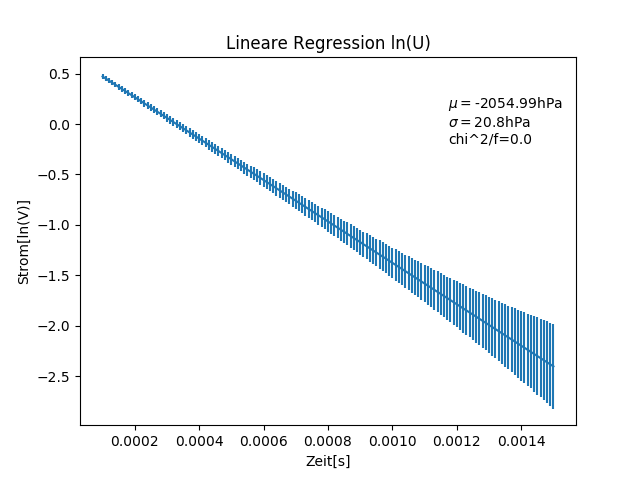
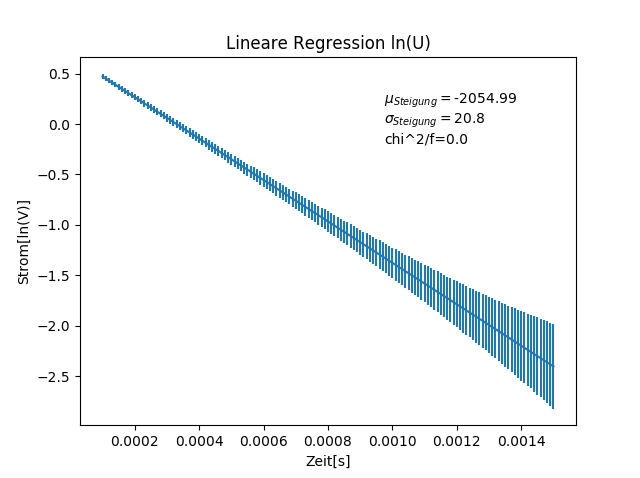
Vervollständigung

Changed region(s): [[0.5938, 0.1757, 0.875, 0.3222]]

diff --git a/Elektronik/E_Protokoll.tex b/Elektronik/E_Protokoll.tex
@@ -118,7 +118,7 @@ Herstellerangabe [$\Omega$] & Multimeter [$\Omega$] & Brücke [$\Omega$] & linea
 \label{tab:Widerstand_Ergebnisse}
 \end{tabular} \\
 Es lässt sich gut erkennen, dass die Messwerte aller Messmethoden sehr nah an der Herstellerangabe liegen. Insbesondere liegen alle Messwerte innerhalb der vom Hersteller angegebenen Toleranz.
-
+\newpage
 \section{Kondensator}
 \subsection{Versuchsbeschreibung}
 In diesem Teilversuch soll die Kapazität eines Kondensators durch Auf- und Entladung von diesem bestimmt werden.
@@ -181,8 +181,10 @@ Beim Entladevorgang bleibt die Spannungsquelle eingeschaltet. Der Messvorgang wi
 \subsubsection{Messung mit dem Oszilloskop}
 Messeinstellungen:
 \begin{tabular}{c c c}
-Messparameter & Zeitauflösung: $500\mu s$  & Spannungsauflösung: $0.2V$ \\ 
+Messeinstellungen: & Zeitauflösung: $500\mu s$  & Spannungsauflösung: $0.2V$ \\ 
 \end{tabular} 
+\\
+\\
 Die Achsenauflösungen sollten so gewählt werden, dass man die Werte möglichst gut ablesen kann.
 Der Trigger sollte an der Spannungskurve anliegen.
 \subsubsection{Messung mit CASSY}
@@ -203,7 +205,7 @@ Um die Kapazität zu bestimmen wurden jeweils bei Auf- und Entladung zwei Zeiten
 \begin{center}
 \begin{tabular}{|c|c|c|c|c|c|}
 \hline 
-• & Offset & t1 & U1 & t2 & U2 \\ 
+ & Offset & t1 & U1 & t2 & U2 \\ 
 \hline 
 Aufladung & -1.18V & -5.2ms & -0.928V & $0.5ms$ & -0.240V \\ 
 \hline 
@@ -220,7 +222,7 @@ Die gemessenen Werte sind in Tab\ref{tab:Kond_Osz} aufgeführt. Die Kapazität w
 \end{equation}
 Nach C auflösen ergibt:
 \begin{equation}
-C = \dfrac{t1-t2}{R\cdot \ln(\dfrac{U1}{U2}}
+C = \dfrac{t1-t2}{R\cdot \ln(\dfrac{U1}{U2})}
 \end{equation}
 
 
@@ -259,7 +261,7 @@ Die Fehler wurden dabei folgendermaßen bestimmt:
 \subsection{Auswertung CASSY}
 Über das CASSY wurden bei Auf- und Entladung jeweils 5 Datensätze aufgenommen.
 \subsubsection{Rohdaten}
-Die Rohdaten Folgen einem logarithmischem Verlauf. Es ist also sinnvoll, diese zu logarithmieren. Dabei wird die Spannung beim Aufladen mit
+Die Rohdaten Folgen einem logarithmischem Verlauf. Es ist also sinnvoll, diese zu logarithmieren. Dabei wird die \textbf{Spannung beim Aufladen} mit
 \begin{equation}
 U_{log} = log(U_0-U)
 \end{equation}
@@ -271,7 +273,8 @@ U_{log} = log(U)
 I_{log} = log(I)
 \end{equation}
 logarithmiert.\\
-In den folgenden Beispielplots erkennt man, dass diese logarithmische Darstellung nur am Anfang des Messbereiches sinnvoll ist, da im späteren die Schwankung zu stark wird und der Verlauf nicht mehr logarithmisch ist.
+In den folgenden Beispielplots erkennt man, dass diese logarithmische Darstellung nur am Anfang des Messbereiches sinnvoll ist, da im späteren die Schwankung zu stark wird und der Verlauf nicht mehr logarithmisch ist.\\
+Es wurde immer der Betrag der Messwerte genommen. Deswegen ist der Strom beim Entladen positiv.
 \begin{figure}[H]
 \begin{center}
 \includegraphics[width=0.49\linewidth]{Bilder/Kondensator_U}
@@ -315,7 +318,7 @@ In den folgenden Beispielplots erkennt man, dass diese logarithmische Darstellun
 \includegraphics[width=0.49\linewidth]{Bilder/Kondensator_auf_linU}
 \includegraphics[width=0.49\linewidth]{Bilder/Kondensator_auf_resI}
 \includegraphics[width=0.49\linewidth]{Bilder/Kondensator_auf_resU}
-\caption[Rohdaten logarith. A]{Lineare Regressionen bei der Aufladung}
+\caption[Rohdaten logarith. A]{Lineare Regressionen bei der Aufladung(links: Strom, rechts: Spannung}
 \label{fig:linAuf}
 \end{center}
 \end{figure}
@@ -326,7 +329,7 @@ In den folgenden Beispielplots erkennt man, dass diese logarithmische Darstellun
 \includegraphics[width=0.49\linewidth]{Bilder/Kondensator_ent_linU}
 \includegraphics[width=0.49\linewidth]{Bilder/Kondensator_ent_resI}
 \includegraphics[width=0.49\linewidth]{Bilder/Kondensator_ent_resU}
-\caption[Rohdaten logarith. A]{Lineare Regressionen bei der Entladung}
+\caption[Rohdaten logarith. A]{Lineare Regressionen bei der Entladung(links: Strom, rechts: Spannung)}
 \label{fig:linEnt}
 \end{center}
 \end{figure}
@@ -340,7 +343,7 @@ Als Einzelfehler für die lineare Regression wurde der durch Fehlerfortpflanzung
 \begin{equation}
 \sigma_{log(I)} = \dfrac{\sigma_I}{I}
 \end{equation}
-Wobei $\sigma_U$ und $\sigma_I$ den Rauschmessungsfehlern aus dem vorherigen Versuch entsprechen.
+Wobei $\sigma_U$ und $\sigma_I$ den Rauschmessungsfehlern aus dem vorherigen Versuch entsprechen.\\
 Anmerkung: Da die Rauschmessung mit dem kapputen CASSY durchgeführt wurde, sind die Fehler vermutlich viel zu groß. Dies resultiert in zu kleinen $\chi ^{2}/f$.
 
 \begin{table}
@@ -367,10 +370,11 @@ Der Fehler auf $\tau$ ergibt sich dabei folgendermaßen:
 \begin{equation}
 \sigma_{\tau}=\dfrac{\sigma_{a}}{a^{2}}
 \end{equation}
-Der Fehler auf C ergibt sich durch
+Der statistische Fehler auf C ergibt sich durch
 \begin{equation}
 \sigma_C = \sqrt{(\dfrac{\sigma_{\tau}}{R})^{2}+(\dfrac{\tau \cdot \sigma_{R}}{R^{2}})^{2}}
 \end{equation}
+Der systematische Fehler auf C wird aus dem systematischen des Widerstandes fortgepflanzt.
 \begin{table}[H]
 \begin{tabular}{|c|c|c|}
 \hline 
@@ -395,17 +399,22 @@ C_{ges} = (4.951\pm 0.006\pm0.123)\mu F
 
 \begin{tabular}{|c|c|}
 \hline 
-Herstellerangaben & 4.7\\ 
+Herstellerangaben & $(4.7\pm0.235)\mu F$\\ 
 \hline 
-CASSY & $4.951\pm 0.006\pm0.123$\\
+CASSY & $(4.951\pm 0.006\pm0.123)\mu F$\\
 \hline 
-Oszilloskop(Aufladung) & $4.69\pm 0.05\pm 0.08$ \\ 
+Oszilloskop(Aufladung) & $(4.69\pm 0.05\pm 0.08)\mu F$ \\ 
 \hline 
-Oszilloskop(Entladung) & $4.88\pm 0.02\pm 0.05$ \\ 
+Oszilloskop(Entladung) & $(4.88\pm 0.02\pm 0.05)\mu F$ \\ 
 \hline 
-Brücke & $4.88\pm0.01\pm0.01$ \\ 
+Brücke & $(4.88\pm0.01\pm0.01)\mu F$ \\ 
 \hline 
 \end{tabular} 
+
+\subsubsection{Fazit}
+Die meisten Messungen haben einen Wert ergeben, der größer als die Herstellerangabe. Auffallend ist der riesige Systematische Fehler auf die CASSY-Messung. Dieser macht die CASSY-Messung sehr ungenau und vermutlich wurde hier ein zu großer Wert gemessen.\\
+Alle vier Messergebnisse liegen im Bereich einer Standardabweichung um den Wert $4.9\mu F$. Dieser Wert liegt im Rahmen der vom Hersteller angegebenen Ungenauigkeit. Es ist also sinnvoll anzunehmen, dass der Kondensator eine Kapazität von $4.9\mu F$ hat.
+\newpage
 
 \section{RLC-Schwingkreis}
 \subsection{Versuchsbeschreibung}
@@ -739,7 +748,7 @@ Herstellerangaben und von uns bestimmte Werte weichen dabei in der Regel um weni
 Lediglich die Aufzeichnung und Bestimmung des aperiodischen Grenzfalls ist nicht vollständig gelungen. Der bestimmte Wert weicht um mehrere Standardabweichungen von der theoretischen Vorhersage ab. Ursächlich dafür ist wahrscheinlich, dass eine exakte Aufzeichnung des Grenzfalls nicht gelungen ist und mit der besten vorhandenen Approximation gearbeitet werden musste.
 
 
-
+\newpage
 \section{Gekoppelte Schwingkreise - Schwebung}
 \subsection{Versuchsbeschreibung}
 Ein LC-Schwingkreis kann induktiv mit einem zweiten LC-Schwingkreis gekoppelt werden, der dadurch zu erzwungenen Schwingungen angeregt wird. Falls die Eigenfrequenzen der Schwingkreise gleich ist $w_1 = w_2$, tritt eine Resonanz auf. In diesem Fall kann eine Schwebung beobachtet werden. Bedeutet: Die Schwingungsenergie "schwingt" zwischen den Schwingkreisen hin und her. \\
@@ -825,6 +834,7 @@ Der beschriebene Versuch wurde mit 3 verschiedenen Kopplungen durchgeführt: Ein
 Die Kopplung wurde jeweils mit Gleichung \ref{eq:Kopplung} bestimmt. Der Fehler ergibt sich aus der gauß'schen Fehlerfortpflanzung zu:
 \begin{equation}
 \sigma_k = \sqrt{\left( \left( \dfrac{2 \cdot f_-}{f_+^2 + f_-^2} - 2 \cdot f_- \cdot \dfrac{f_-^2 - f_+^2}{(f_+^2 + f_-^2)^2} \right) \cdot \sigma_{f_-} \right)^2 + \left( \left( \dfrac{2 \cdot f_+}{f_+^2 + f_-^2} + 2 \cdot f_+ \cdot \dfrac{f_-^2 - f_+^2}{(f_+^2 + f_-^2)^2} \right) \cdot \sigma_{f_+} \right)^2}
+\label{eq:Kopplung_k}
 \end{equation}
 Außerdem wurde die Zeitverschiebung aus den Daten jeweils über den zeitlichen Abstand zwischen einem Extremum in der einen und einer Nullstelle in der anderen Spannung bestimmt. Berechnet man die Zeitverschiebung mit Gleichung \ref{eq:delta_t}, so findet man mit der gauß'schen Fehlerfortpflanzung den Fehler auf $\Delta t$ zu:
 \begin{equation}
@@ -854,5 +864,126 @@ Messung & $k_{gemessen}$ & $\Delta t_{berechnet}$ [ms] & $\Delta t_{gemessen}$ [
 
 Die Kopplung der beiden Schwingkreise konnte durch die Bestimmung der beiden Frequenzen aus dem Frequenzspektrum der Schwingung der Spannung sehr gut bestimmt werden (insbesondere mit kleinem Fehler). Einen Vergleichswert anzugeben gestaltet sich an dieser Stelle als recht schwierig, da dafür viele Faktoren eine Rolle spielen. \\
 Die Bestimmung der Zeitverschiebung zwischen den beiden Schwingungen durch Bestimmung der zeitlichen Differenz zwischen einem Extremum in der einen und einer Nullstelle in der anderen Spannung hat nicht so gut funktioniert. Liegen die Werte zum Teil zwar nur wenige Standardabweichungen von den errechneten Werten entfernt, so liegt dies doch daran, dass die Fehler recht groß sind.
+\newpage
+\section{Gekoppelte Schwingkreise Teil 2 - Fundamentalschwingungen}
+\subsection{Versuchsbeschreibung}
+In diesem Teilversuch sollen nun die Fundamentalschwingungen bestimmt werden. Dazu werden zwei über die Spulen gekoppelte baugleiche Schwingkreise einmal gleichläufig und einmal gegenläufig angeregt.
+
+Bei gleicher Anregung werden die Ströme addiert, was dazu führt, dass die resultierende Fundamentalschwingung gegeben ist durch
+\begin{equation}
+\omega_+ =\dfrac{\omega_0}{\sqrt{1+k}}
+\end{equation}
+wobei $\omega_0 = \dfrac{1}{\sqrt{L\cdot C}}$ die ungekoppelte Frequenz und k der Kopplungsfaktor ist.\\
+Bei entgegengesetzter Anregung werden die Ströme subtrahiert. Damit ist die Frequenz:
+\begin{equation}
+\omega_- =\dfrac{\omega_0}{\sqrt{1-k}}
+\end{equation}
+\\
+Der Kopplungsfaktor k kann nun wie im vorherigen versuchsteil bestimmt werden durch
+\begin{equation}
+k = \dfrac{f_-^2 - f_+^2}{f_-^2 + f_+^2}
+\label{eq:Kopplung2}
+\end{equation}
+
+\subsection{Aufbau und Durchführung}
+
+\begin{figure}
+\begin{center}
+\includegraphics[width=\linewidth]{Bilder/Fund_Aufbau.PNG}
+\end{center}
+\caption[Aufbau Schwebung]{Aufbau für Messung der Schwebung zweier gekoppelter Schwingkreise}
+\label{fig:Fund_Aufbau}
+\end{figure}
+
+Der Aufbau ist ähnlich zu dem von Teil 1, nur wird jetzt an beiden Schwingkreisen eine Spannung angelegt. Es sollte auch hier vor allem darauf geachtet werden, dass die Schwingkreise möglichst identische Bauteile haben.
+Bei dem gleichsinnigen Schwingkreis sollten diese in unterschiedliche Richtung gepolt sein, im gegensinnigen in die gleiche Richtung. Da es oft schwer ist, die Windungsrichung der Spulen herauszufinden, kann während der Messung einfachheitshalber eine Spule umgepolt werden und erst bei der Auswertung analysiert werden, welcher Aufbau nun der gleichsinnige und welcher der gegensinnige war.\\
+In dem von uns gewählten Aufbau standen die Spulen dicht hintereinander. Es wurde kein Eisenkern benutzt.\\
+\\
+Bei der Durchführung sollte möglichst bei beiden Spannungsquellen die gleichen Werte eingestellt werden. Die Schwingungen werden gleichzeitig über einen Schalter gestartet.\\
+\\
+Es wurden die gleichen Messeinstellungen wie bei Teil 1 verwendet.
+
+\subsection{Auswertung}
+
+\subsubsection{Rohdaten und Frequenzspektren}
+\begin{figure}
+\begin{center}
+\includegraphics[width=0.49\linewidth]{Bilder/Fund_Rohdaten1.PNG}
+\includegraphics[width=0.49\linewidth]{Bilder/Fund_Frequenz1.PNG}
+\end{center}
+\caption[Aufbau Schwebung]{Rohdaten und dazugehörige FFT der Fundamentalschwingung $\omega_+$, gemessen am 1.Schwingkreis}
+\label{fig:Fund_Roh1}
+\end{figure}
+
+\begin{figure}
+\begin{center}
+\includegraphics[width=0.49\linewidth]{Bilder/Fund_Rohdaten2.PNG}
+\includegraphics[width=0.49\linewidth]{Bilder/Fund_Frequenz2.PNG}
+\end{center}
+\caption[Aufbau Schwebung]{Rohdaten und dazugehörige FFT der Fundamentalschwingung $\omega_-$, gemessen am 1.Schwingkreis}
+\label{fig:Fund_Roh2}
+\end{figure}
+
+Abb.\ref{fig:Fund_Roh1} zeigt einen ausgewählten Rohdatenplot und die dazugehörige FFT der niedrigeren Frequenz $\omega_+$. Abb.\ref{fig:Fund_Roh2} zeigt das Gleiche für $\omega_-$.\\
+Vorallem in Abb.\ref{fig:Fund_Roh2} kann man neben einem großen Peak noch einen kleineren Peak erkennen. Dies liegt daran, dass die Schwingkreise nicht völlig identisch waren, wodurch trotz allen Bemühungen eine Schwebung entstanden ist.
+Diese ist sogar in den Rohdaten erkennbar.\\
+\\
+Eine lokale Peakschwerpunktsanalyse ergibt, dass
+\begin{equation}
+\omega_+ \approx 721Hz
+\end{equation}
+und
+\begin{equation}
+\omega_- \approx 812Hz
+\end{equation}
+
+\subsubsection{Ergebnis und Fazit}
+Für beide Orientierungen wurden jeweils 3 Messungen aufgenommen und jeweils für die Spannung am 1. und 2.Kondensator ausgewertet. Die Ergebnisse sind in Tab.\ref{tab:Fund_Ergebnis} aufgelistet.
+
+\begin{table}[H]
+\begin{center}
+\begin{tabular}{|c|c|c|}
+\hline 
+ & $\omega_+[Hz]$ & $\omega_-[Hz]$ \\ 
+\hline 
+Spannung 1 & $721.03\pm0.32$ & $812.00\pm0.17$ \\ 
+\hline 
+Spannung 2 & $726.13\pm0.44$ & $815.61\pm1.97$ \\ 
+\hline 
+\end{tabular} 
+\end{center}
+\label{tab:Fund_Ergebnis}
+\caption{Ergebnisse Fundamentalschwingungen}
+\end{table}
+
+Man erkennt schnell, dass die Schwinkreise nicht ganz identisch eingestellt waren. Dies ist nicht weiter verwunderlich, da schon in den anderen Versuchen für die beiden Kondensatoren unterschiedliche Werte ermittelt wurden.\\
+\\
+Die angegebenen Fehler sind die Fehler auf den Mittelwert durch die Mehrfachbestimmung.\\
+Anmerkung: Der Fehler auf $\omega_-$ bei Spannung 2 ist größer als die anderen, da hier eine Messreihe eine sehr starke Schwebung ergab und der Peak somit sehr schwer zu bestimmen war.\\
+\\
+Mit \ref{eq:Kopplung2} kann man nun den Kopplungsgrad bestimmen:
+
+\begin{table}[H]
+\begin{center}
+\begin{tabular}{|c|c|}
+\hline 
+ & Ergebnis\\ 
+\hline 
+Schwingkreis 1  & $0.1183\pm 0.0005$ \\ 
+\hline 
+Schwingkreis 2 & $0.1157\pm  0.0025$\\ 
+\hline 
+aus Teil 1 & $0.1303\pm  0.0007$\\ 
+\hline 
+\end{tabular} 
+\end{center}
+\label{tab:Ergebnisse_k}
+\caption{Ergebnisse für die Kopplung}
+\end{table}
+
+Der Fehler wurde genau so wie in Teil 1 mit Gl.\ref{eq:Kopplung_k} bestimmt.\\
+\\
+Man kann abschließend sagen, dass der Kopplungsgrad auch mit dieser Methode sehr gut bestimmt worden konnte. Der Kopplungsgrad unterscheidet sich trotz leicht unterschiedlicher Schwingkreise kaum.\\
+Das Ergebnis ist allerdings etwas abweichend von dem bei der Schwebung ermittelten, bei dem die Spulen ähnlich aufgebaut waren. Diese Abweichung kann aber dadurch erklärt werden, dass der Versuchsaufbau zwischen beiden Versuchen vollständig Umgebaut wurde. Ein Vergleich ist also nicht sehr aussagekräftig.
 
 \end{document}

diff --git a/Elektronik/Python/Kondensator_aufladung_neu.py b/Elektronik/Python/Kondensator_aufladung_neu.py
@@ -54,9 +54,9 @@ def pictures(t,I=None,U=None,lnI=None,lnU=None,dlnI=None,dlnU=None):
         plt.xlabel("Zeit[s]")
         plt.ylabel("Strom[ln(A)]")
         plt.title("Lineare Regression ln(I)")
-        plt.figtext(0.7,0.7,
-            '\n$\mu=$'+str(np.round(a,2))+'hPa\n'
-            +'$\sigma=$'+str(np.round(ea,2))+'hPa\n'
+        plt.figtext(0.6,0.7,
+            '\n$\mu_{Steigung}=$'+str(np.round(a,2))+'\n'
+            +'$\sigma_{Steigung}=$'+str(np.round(ea,2))+'\n'
             +'chi^2/f='+str(np.round(chiq/(len(x)-1),2)))
         res = y-(x*a+b)
         plt.subplots()
@@ -70,11 +70,11 @@ def pictures(t,I=None,U=None,lnI=None,lnU=None,dlnI=None,dlnU=None):
         plt.subplots()
         plt.errorbar(x,a*x+b,yerr = dy)
         plt.xlabel("Zeit[s]")
-        plt.ylabel("Strom[ln(V)]")
+        plt.ylabel("Spannung[ln(V)]")
         plt.title("Lineare Regression ln(U)")
         plt.figtext(0.7,0.7,
-            '\n$\mu=$'+str(np.round(a,2))+'hPa\n'
-            +'$\sigma=$'+str(np.round(ea,2))+'hPa\n'
+            '\n$\mu=$'+str(np.round(a,2))+'\n'
+            +'$\sigma=$'+str(np.round(ea,2))+'\n'
             +'chi^2/f='+str(np.round(chiq/(len(x)-1),2)))
         res = y-(x*a+b)
         plt.subplots()
@@ -139,7 +139,7 @@ for i in range(len(data)):
     ITstat.append(ea/(a**2))
     Ia.append(a)
     Iastd.append(ea)
-    if i==8:
+    if i==0:
         pictures(t,lnI=logI,lnU=logU,dlnI=dlogI,dlnU=dlogU)
 
 CUE,CUEerr,CIE,CIEerr = k.alles()

diff --git a/Elektronik/Python/Kondensator_entladung_neu.py b/Elektronik/Python/Kondensator_entladung_neu.py
@@ -53,9 +53,9 @@ def pictures(t,I=None,U=None,lnI=None,lnU=None,dlnI=None,dlnU=None):
         plt.xlabel("Zeit[s]")
         plt.ylabel("Strom[ln(A)]")
         plt.title("Lineare Regression ln(I)")
-        plt.figtext(0.7,0.7,
-            '\n$\mu=$'+str(np.round(a,2))+'hPa\n'
-            +'$\sigma=$'+str(np.round(ea,2))+'hPa\n'
+        plt.figtext(0.6,0.7,
+            '\n$\mu_{Steigung}=$'+str(np.round(a,2))+'\n'
+            +'$\sigma_{Steigung}=$'+str(np.round(ea,2))+'\n'
             +'chi^2/f='+str(np.round(chiq/len(x),2)))
         res = y-(x*a+b)
         plt.subplots()
@@ -71,9 +71,9 @@ def pictures(t,I=None,U=None,lnI=None,lnU=None,dlnI=None,dlnU=None):
         plt.xlabel("Zeit[s]")
         plt.ylabel("Strom[ln(V)]")
         plt.title("Lineare Regression ln(U)")
-        plt.figtext(0.7,0.7,
-            '\n$\mu=$'+str(np.round(a,2))+'hPa\n'
-            +'$\sigma=$'+str(np.round(ea,2))+'hPa\n'
+        plt.figtext(0.6,0.7,
+            '\n$\mu_{Steigung}=$'+str(np.round(a,2))+'\n'
+            +'$\sigma_{Steigung}=$'+str(np.round(ea,2))+'\n'
             +'chi^2/f='+str(np.round(chiq/len(x),2)))
         res = y-(x*a+b)
         plt.subplots()
@@ -140,7 +140,7 @@ def alles():
         Ia.append(a)
         Iastd.append(ea)
         
-        if i==6:
+        if i==1:
             pictures(t,lnI=logI,lnU=logU,dlnI=dlogI,dlnU=dlogU)
     
     mittelTU,stdTU = p.gewichtetes_mittel(UTs,np.array(UTstat))

diff --git a/Elektronik/Python/Fundamentalschwingungen.py b/Elektronik/Python/Fundamentalschwingungen.py
@@ -21,15 +21,15 @@ def pictures(freq=None,amp=None,t=None,U1=None,U2=None):
         t,U1 = p.untermenge_daten(t,U1,0,0.08)
         plt.subplots()
         plt.plot(t,U1)
-        plt.xlabel("Spannung[V]")
-        plt.ylabel("Zeit[s]")
+        plt.ylabel("Spannung[V]")
+        plt.xlabel("Zeit[s]")
         plt.title("Rohdaten")
     if t!=None and U2!=None:
         t,U2 = p.untermenge_daten(t,U2,0,0.08)
         plt.subplots()
         plt.plot(t,U2)
-        plt.xlabel("Spannung[V]")
-        plt.ylabel("Zeit[s]")
+        plt.ylabel("Spannung[V]")
+        plt.xlabel("Zeit[s]")
         plt.title("Rohdaten")
 
 data = []
